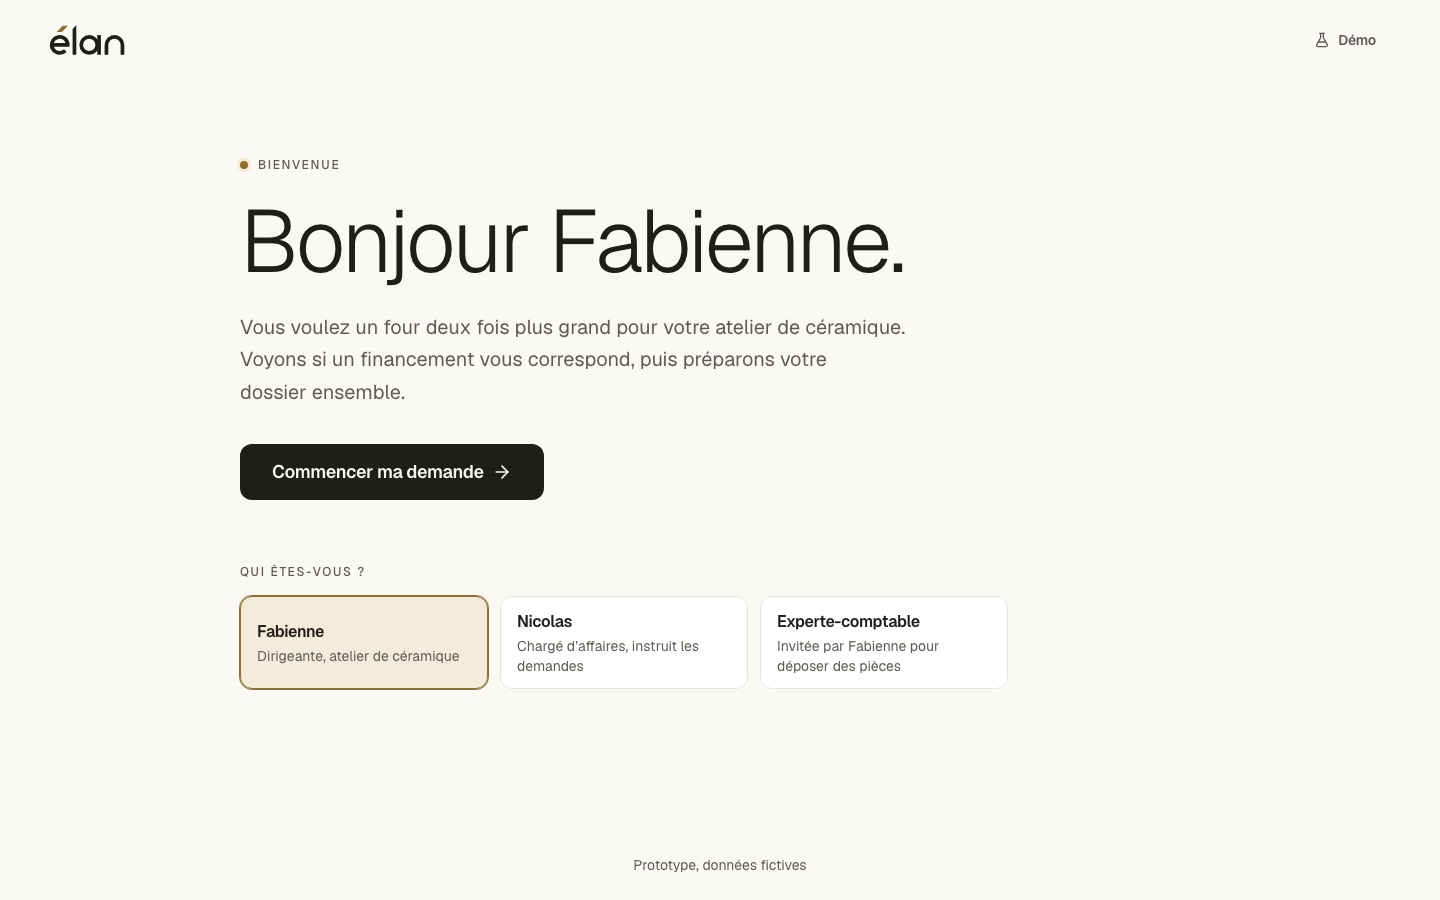
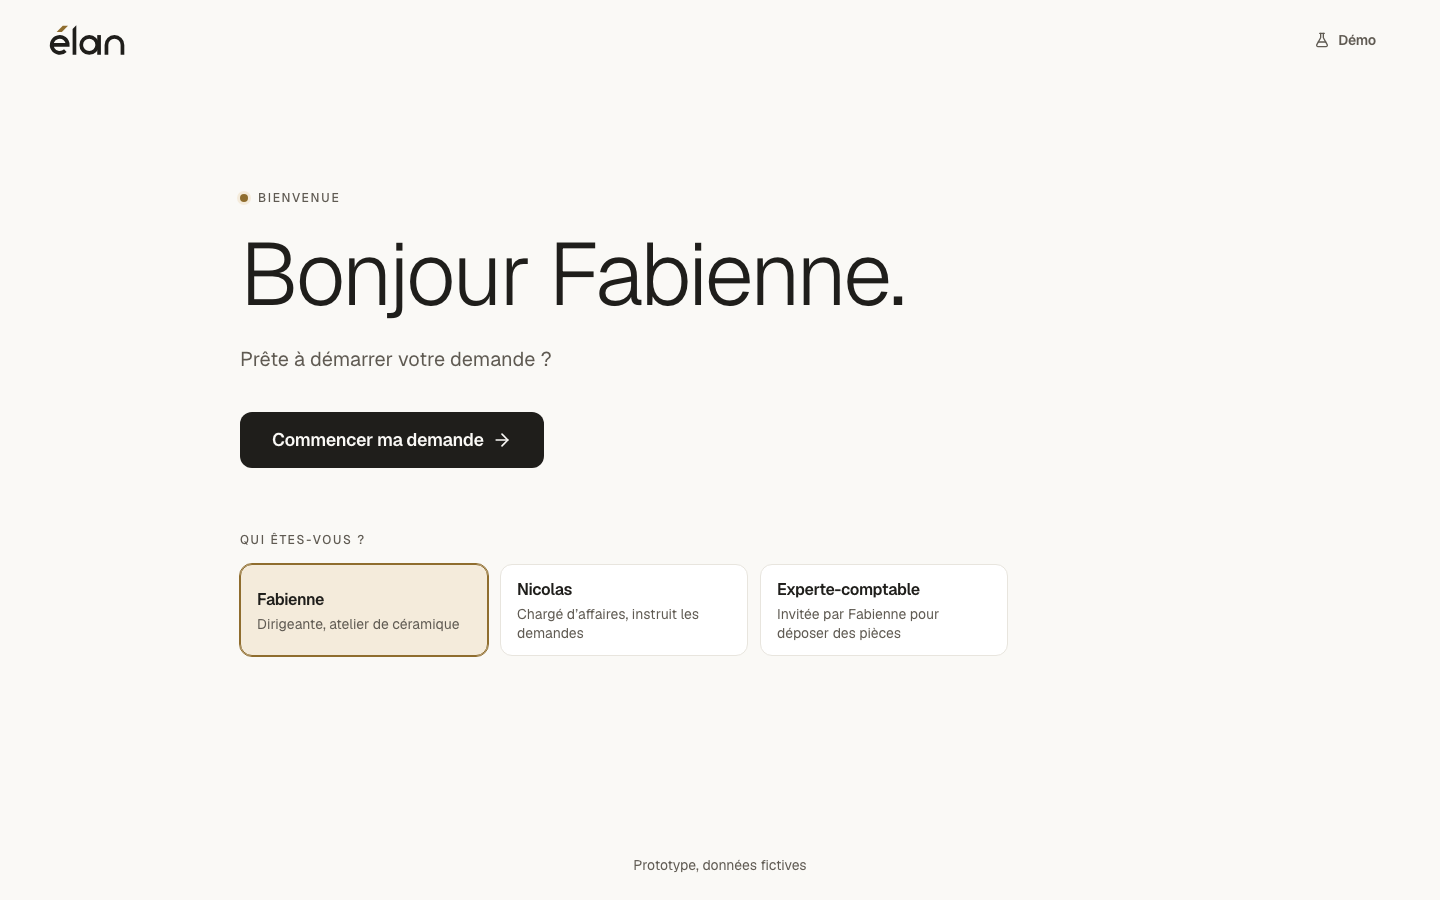
Écran de bienvenue : une seule phrase d'invitation par profil

diff --git a/html/js/page-bonjour.js b/html/js/page-bonjour.js
@@ -7,9 +7,9 @@ import { ui, demande, pieces } from './state.js'
 import { complete, PIECES } from './pieces.js'
 
 const PROFILS = {
-  fabienne: { salut: 'Bonjour Fabienne.', texte: 'Vous voulez un four deux fois plus grand pour votre atelier de céramique. Voyons si un financement vous correspond, puis préparons votre dossier ensemble.', cta: 'Commencer ma demande', url: '/eligibilite', nom: 'Fabienne', role: 'Dirigeante, atelier de céramique' },
-  nicolas: { salut: 'Bonjour Nicolas.', texte: 'Des dossiers vous attendent. Les plus complets sont en haut de votre file, avec ce qu’il reste à vérifier.', cta: 'Voir mes dossiers', url: '/pro/dossiers/argile', nom: 'Nicolas', role: 'Chargé d’affaires, instruit les demandes' },
-  experte: { salut: 'Bonjour.', texte: 'Fabienne M. vous a invitée à déposer des pièces pour sa demande. Vous ne voyez que ces pièces, jamais le reste du dossier.', cta: 'Déposer les pièces', url: '/expert/demo', nom: 'Experte-comptable', role: 'Invitée par Fabienne pour déposer des pièces' },
+  fabienne: { salut: 'Bonjour Fabienne.', texte: 'Prête à démarrer votre demande ?', cta: 'Commencer ma demande', url: '/eligibilite', nom: 'Fabienne', role: 'Dirigeante, atelier de céramique' },
+  nicolas: { salut: 'Bonjour Nicolas.', texte: 'Vos dossiers vous attendent.', cta: 'Voir mes dossiers', url: '/pro/dossiers/argile', nom: 'Nicolas', role: 'Chargé d’affaires, instruit les demandes' },
+  experte: { salut: 'Bonjour.', texte: 'Fabienne M. vous a invitée à déposer des pièces.', cta: 'Déposer les pièces', url: '/expert/demo', nom: 'Experte-comptable', role: 'Invitée par Fabienne pour déposer des pièces' },
 }
 const racine = $('#racine'); racine.className = 'relative flex min-h-dvh flex-col bg-bg text-text'; document.title = 'Bonjour · Élan'
 function rendre() {

diff --git a/docs/decisions.md b/docs/decisions.md
@@ -137,3 +137,7 @@ Format : contexte, options, choix, raison.
 - Choix : « Dès le départ, j'ai su si j'avais ma chance. Chaque pièce m'a été expliquée. », attribuée à Fabienne M., céramiste. Texte écrit pour le prototype, aucun chiffre, aucun résultat promis (pas de « mon four est financé »).
 - Honnêteté : ce n'est pas une parole recueillie. Dans un produit réel, cette carte devrait citer un vrai retour d'utilisatrice, avec son accord. Le brief reste cité tel quel dans `docs/parcours-cible.md`.
 - Essai écarté : la phrase de marque « Élan donne sa chance à chaque entrepreneur qui ose » avec un lien d'action a été testée sur la carte, puis retirée à la demande de l'utilisatrice. La carte reste le témoignage de Fabienne côté bénéfice.
+
+## D24. Écran de bienvenue : une seule phrase
+- Contexte : première connexion. Le texte d'accueil (le projet de four, le déroulé) donnait trop d'informations avant même de commencer.
+- Choix : le salut et une phrase d'invitation (« Prête à démarrer votre demande ? », « Vos dossiers vous attendent. », « Fabienne M. vous a invitée à déposer des pièces. »). Le contexte du projet est donné par le parcours lui-même.
